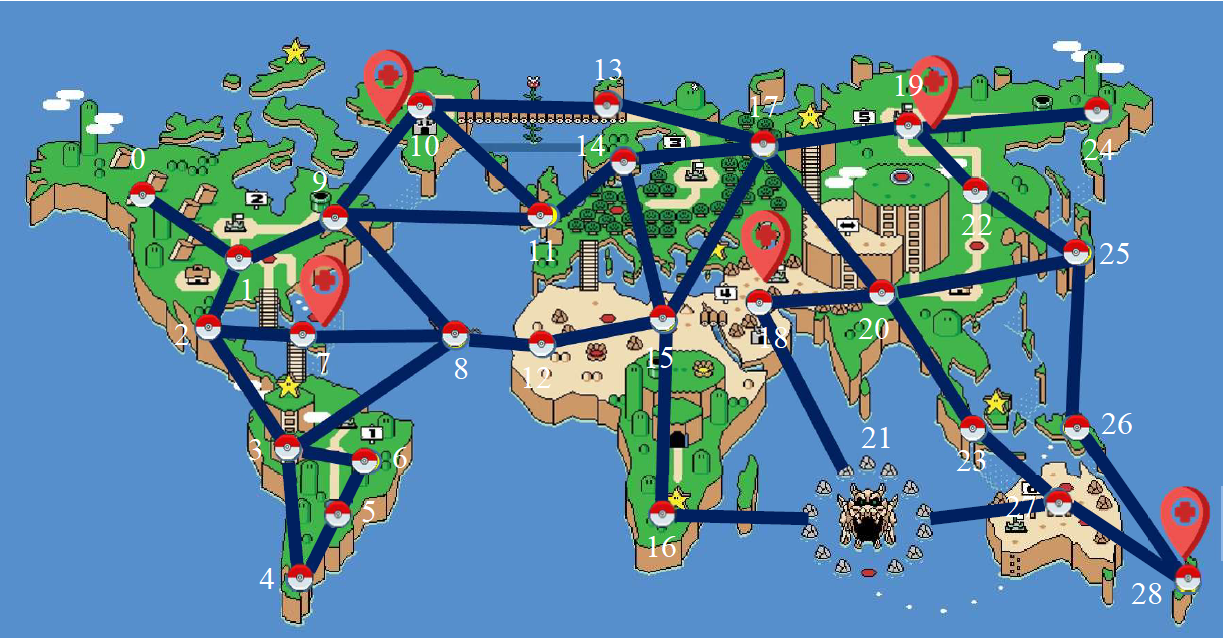
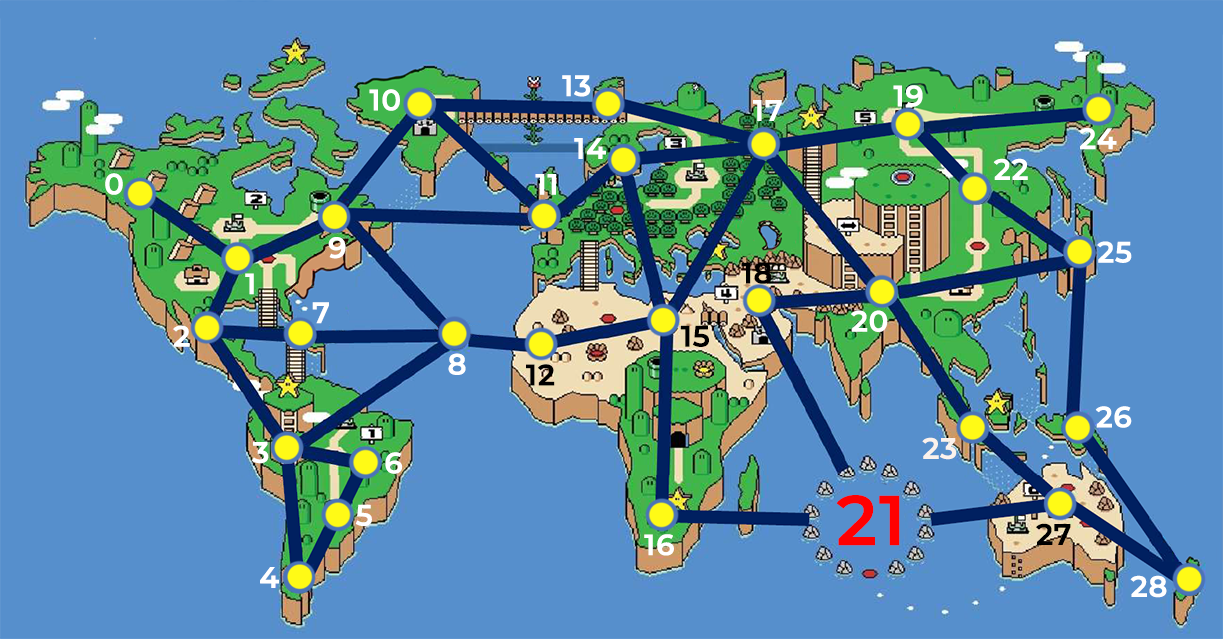
mapa mejorado

diff --git a/pokemon/src/utilities/Utilities.java b/pokemon/src/utilities/Utilities.java
@@ -6,12 +6,12 @@ import java.util.List;
 import java.util.Random;
 
 public class Utilities {
-    public static final int CANT_LUGARES = 29;//10;
-    public static final int ID_LUGAR_MAESTRO = 21;//8;
-    public static final int CANT_ADVERSARIOS = 15; // Sin incluir al maestro
-    public static final int CANT_POKEBOLAS = 5;//2;
-    private static int idLugarInicialAgente = -1;
-    private static int energiaInicialAgente = 1000;
+    public static final int CANT_LUGARES = 10; //29;
+    public static final int ID_LUGAR_MAESTRO = 8; //21;
+    public static final int CANT_ADVERSARIOS = 4;//15; // Sin incluir al maestro
+    public static final int CANT_POKEBOLAS = 3;//5;
+    private static int idLugarInicialAgente = 2;//-1;
+    private static int energiaInicialAgente = 200; //1000;
     private static List<List<Integer>> lugares = null;
 
     public static List<List<Integer>> crearMapa() {
@@ -21,7 +21,7 @@ public class Utilities {
             lugares = new ArrayList<>();
 
             // Mapa completo
-            ///*
+            /*
             // Lugar 0
             lugares.add(Arrays.asList(1));
             // Lugar 1
@@ -80,9 +80,9 @@ public class Utilities {
             lugares.add(Arrays.asList(21, 23, 28));
             // Lugar 28
             lugares.add(Arrays.asList(26, 27));
-            //*/
+            */
 
-            /*
+            ///*
             //America:
             // Lugar 0
             lugares.add(Arrays.asList(1));
@@ -104,7 +104,7 @@ public class Utilities {
             lugares.add(Arrays.asList(3, 7, 9));
             // Lugar 9
             lugares.add(Arrays.asList(1, 8));
-            */
+            //*/
         }
         return lugares;
     }

diff --git a/pokemon/src/environment/PokemonEnvironmentState.java b/pokemon/src/environment/PokemonEnvironmentState.java
@@ -32,9 +32,35 @@ public class PokemonEnvironmentState extends EnvironmentState {
         lugares = Utilities.crearMapa();
         lugarActualAgente = Utilities.getPosInicialAgente();
         // Setea cada lugar con sus pokebolas
-        crearPokebolas();
+        //crearPokebolas();
+        lugarPokebolas = new ArrayList<>();
+        // Pokebolas en 0, 3, 9
+        lugarPokebolas.add(true);
+        lugarPokebolas.add(false);
+        lugarPokebolas.add(false);
+        lugarPokebolas.add(true);
+        lugarPokebolas.add(false);
+        lugarPokebolas.add(false);
+        lugarPokebolas.add(false);
+        lugarPokebolas.add(false);
+        lugarPokebolas.add(false);
+        lugarPokebolas.add(true);
+
         // Setea cada lugar con su adversario
-        crearAdversarios();
+        //crearAdversarios();
+        adversarios = new ArrayList<>();
+        // Adversarios en 1, 4, 6, 7, 8
+        adversarios.add(null);
+        adversarios.add(new Adversario(0, 15, false));
+        adversarios.add(null);
+        adversarios.add(null);
+        adversarios.add(new Adversario(1, 15, false));
+        adversarios.add(null);
+        adversarios.add(new Adversario(2, 15, false));
+        adversarios.add(new Adversario(3, 15, false));
+        adversarios.add(new Adversario(4, 100, true));
+        adversarios.add(null);
+
         energiaAgente = Utilities.getEnergiaInicialAgente();
     }
 

diff --git a/pokemon/src/agent/PokemonCostFunction.java b/pokemon/src/agent/PokemonCostFunction.java
@@ -18,10 +18,9 @@ public class PokemonCostFunction implements IStepCostFunction {
             cost = 3.0;
         else if (node.getAction() instanceof EscaparA)
             cost = 5.0;
-        /*
-            ConsumirPokebola, HabilitarAtaqueEspecial_i y USarAtaqueEspecial_i
-            no tienen costo
-         */
+
+        //    ConsumirPokebola, HabilitarAtaqueEspecial_i y USarAtaqueEspecial_i
+        //    no tienen costo
 
         return cost;
     }
